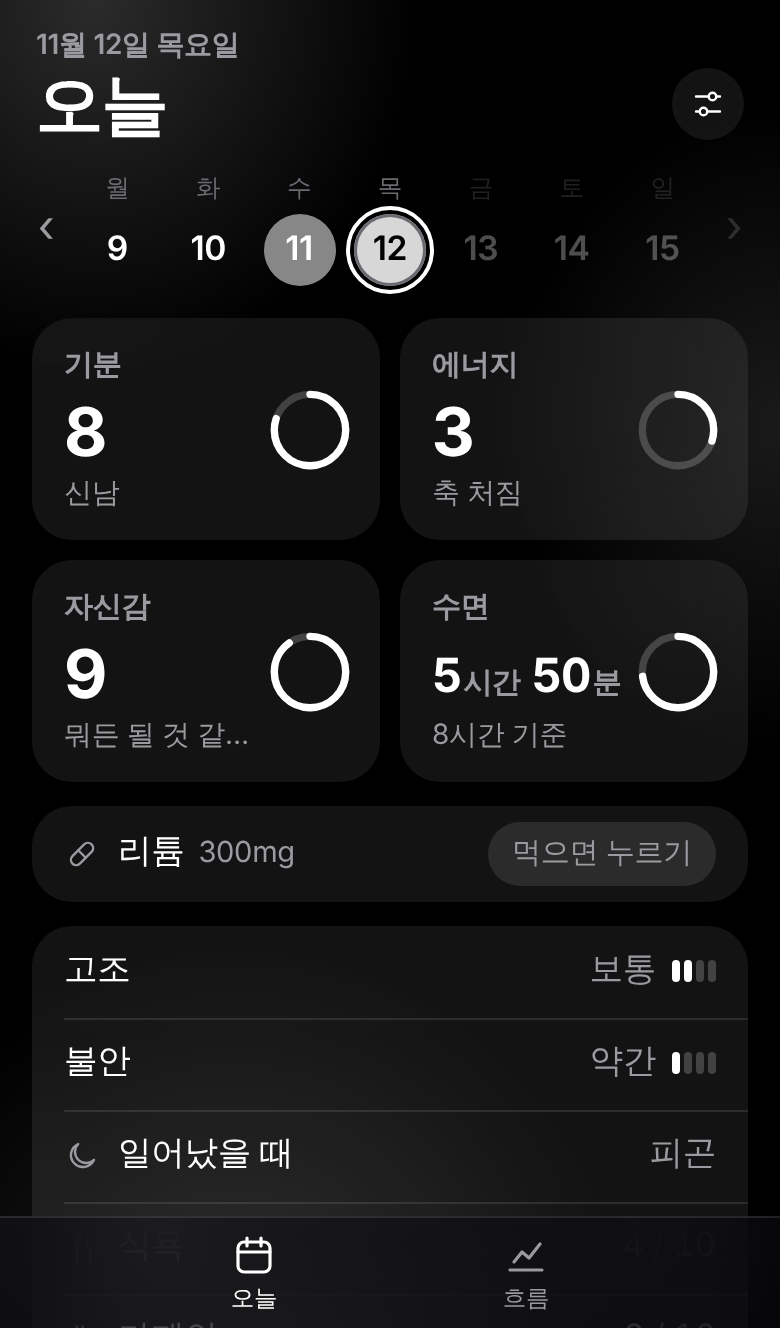
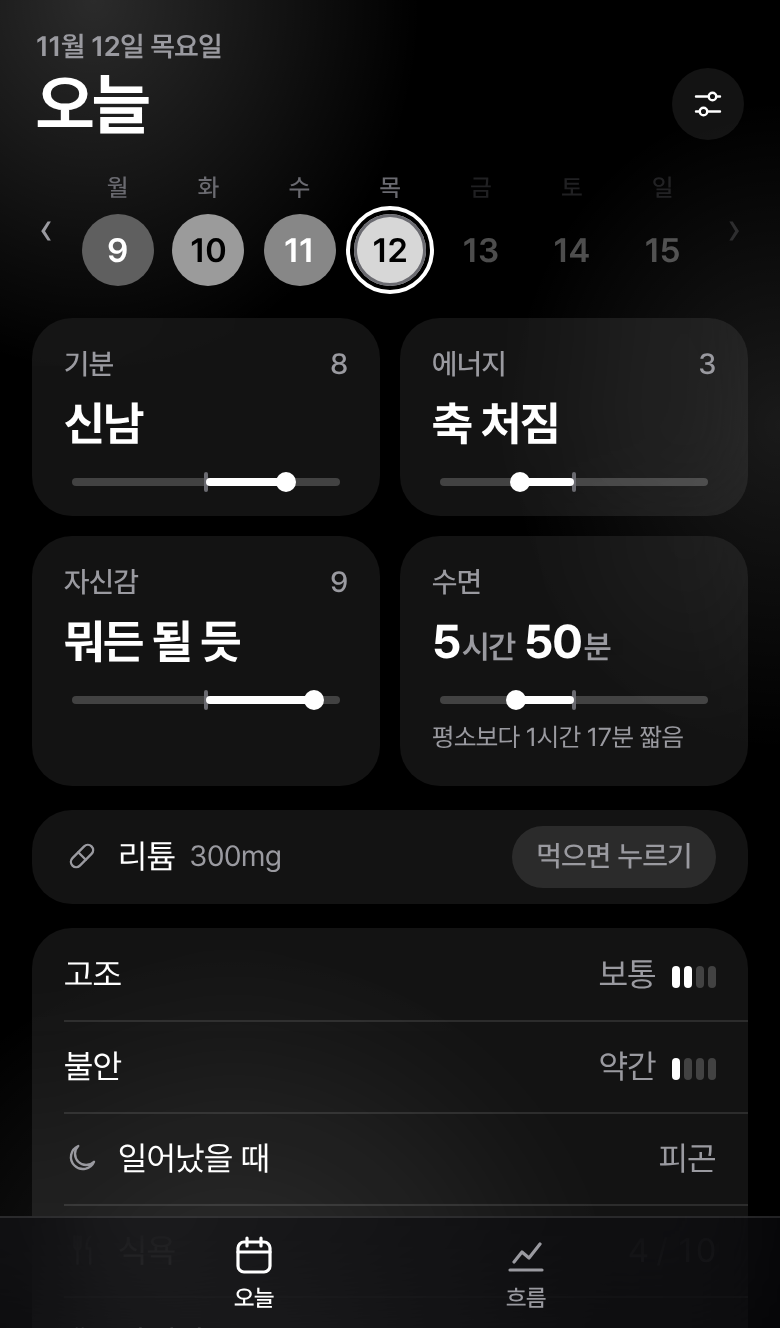
Tide: lead today tiles with the word and a centre-based level bar; drop rings
Claude-Session: https://claude.ai/code/session_01Du4KAy7crrN67i73oW7iBF

diff --git a/mood/app.css b/mood/app.css
@@ -174,13 +174,15 @@ input[type=text] { width: 100%; min-height: 30px; padding: 0; }
 
 /* 오늘 요약 */
 .tiles { display: grid; grid-template-columns: 1fr 1fr; gap: 10px; margin-bottom: 12px; }
-.tile { border-radius: var(--radius); padding: 14px 14px 13px 16px; min-width: 0; display: flex; align-items: center; justify-content: space-between; gap: 8px; }
-.tb { min-width: 0; }
-.tile .tl { color: var(--muted); font-size: calc(13px * var(--fs, 1.12)); font-weight: 600; }
-.tile .n { font-family: var(--round); font-size: calc(30px * min(var(--fs, 1.12), 1.2)); font-weight: 700; line-height: 1.2; letter-spacing: -0.02em; margin-top: 4px; font-variant-numeric: tabular-nums; white-space: nowrap; }
-.tile .n.sm { font-size: calc(21px * min(var(--fs, 1.12), 1.2)); line-height: 1.72; }
-.tile .n small { font-size: .62em; font-weight: 600; color: var(--muted); margin-left: 1px; }
-.ring { width: 42px; height: 42px; flex: none; }
+.tile { border-radius: var(--radius); padding: 14px 16px 15px; min-width: 0; }
+.tile .tl { display: flex; justify-content: space-between; color: var(--muted); font-size: calc(13px * var(--fs, 1.12)); font-weight: 500; font-variant-numeric: tabular-nums; }
+.tile .word { font-size: calc(21px * min(var(--fs, 1.12), 1.25)); font-weight: 700; letter-spacing: -0.03em; line-height: 1.25; margin: 5px 0 12px; white-space: nowrap; overflow: hidden; text-overflow: ellipsis; }
+.tile .word small { font-size: .68em; font-weight: 600; color: var(--muted); margin-left: 1px; }
+.tile .ts { color: var(--muted); font-size: calc(11.5px * var(--fs, 1.12)); margin-top: 8px; white-space: nowrap; overflow: hidden; text-overflow: ellipsis; }
+.lvl { position: relative; height: 4px; border-radius: 999px; background: var(--fill); margin: 0 4px; }
+.lvl::before { content: ""; position: absolute; left: 50%; top: -3px; width: 1.5px; height: 10px; margin-left: -0.75px; border-radius: 1px; background: var(--faint); }
+.lvl i { position: absolute; top: 0; height: 4px; border-radius: 999px; background: var(--ink); }
+.lvl b { position: absolute; top: -3px; width: 10px; height: 10px; margin-left: -5px; border-radius: 50%; background: var(--ink); }
 .empty { text-align: center; color: var(--muted); padding: 26px 16px 16px; font-size: calc(14px * var(--fs, 1.12)); }
 .empty .e1 { font-size: calc(17px * var(--fs, 1.12)); font-weight: 600; color: var(--text); margin-bottom: 3px; }
 .empty .btn { margin-top: 18px; }
@@ -235,5 +237,7 @@ ol.steps li { margin: 3px 0; }
 
 /* 숫자에 붙는 이름 */
 .slv { display: flex; align-items: baseline; gap: 9px; }
+.slv .nm { color: var(--text); font-weight: 600; font-size: calc(15px * var(--fs, 1.12)); }
+.slv b { color: var(--muted); font-size: calc(15px * var(--fs, 1.12)) !important; font-weight: 500 !important; min-width: 1.3em; text-align: right; }
 .nm { color: var(--muted); font-size: calc(13px * var(--fs, 1.12)); }
 .tile .nm { margin-top: 1px; font-size: calc(12.5px * var(--fs, 1.12)); white-space: nowrap; overflow: hidden; text-overflow: ellipsis; }

diff --git a/mood/sw.js b/mood/sw.js
@@ -1,6 +1,6 @@
 // 오프라인에서도 열리도록 앱 파일을 저장해 둔다.
 // 인터넷이 될 때는 항상 최신 파일을 먼저 받아오고, 안 될 때만 저장본을 쓴다.
-const CACHE = 'tide-v11';
+const CACHE = 'tide-v12';
 const FILES = ['./', 'index.html', 'app.css', 'app.js', 'manifest.webmanifest',
   'icons/icon-180.png', 'icons/icon-192.png', 'icons/icon-512.png'];
 
